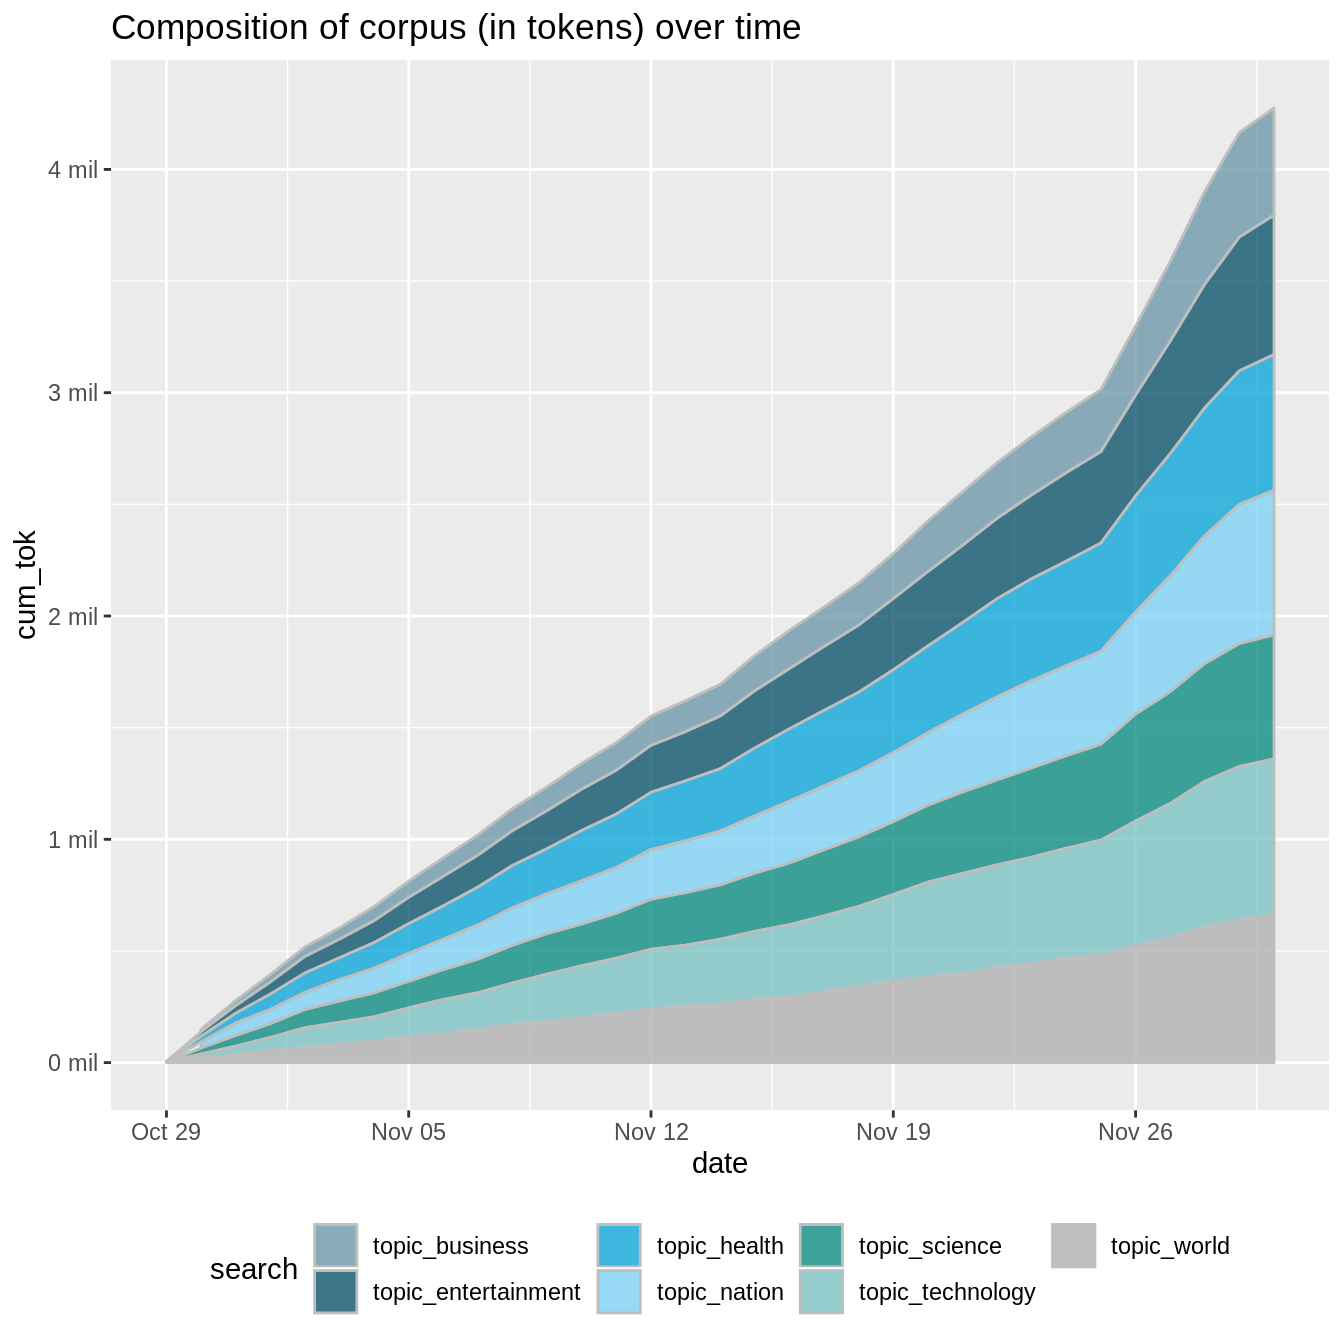
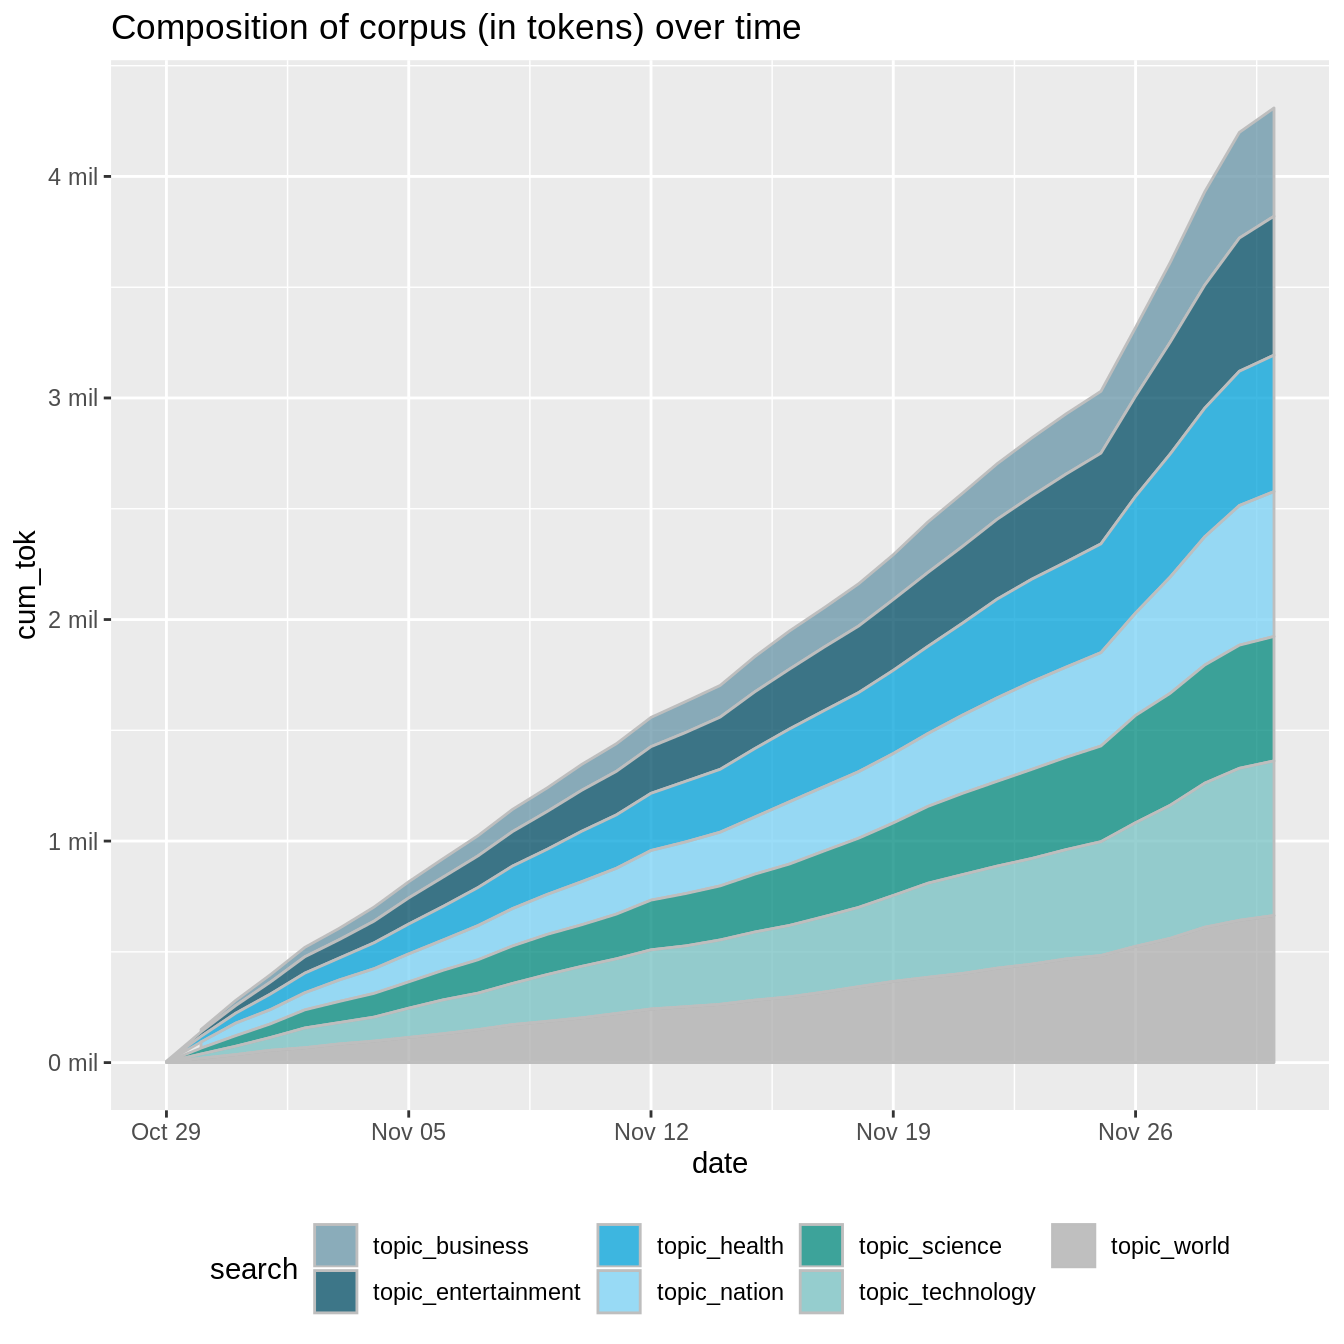
re

diff --git a/content/post/2018-11-11-text-classification-naive-bayes.html b/content/post/2018-11-11-text-classification-naive-bayes.html
@@ -15,15 +15,6 @@ tags: ['rstats', 'corpus-ling']
 banner: banners/naivebayes.png
 ---
 
-<script src="/rmarkdown-libs/htmlwidgets/htmlwidgets.js"></script>
-<script src="/rmarkdown-libs/jquery/jquery.min.js"></script>
-<link href="/rmarkdown-libs/datatables-css/datatables-crosstalk.css" rel="stylesheet" />
-<script src="/rmarkdown-libs/datatables-binding/datatables.js"></script>
-<link href="/rmarkdown-libs/dt-core/css/jquery.dataTables.min.css" rel="stylesheet" />
-<link href="/rmarkdown-libs/dt-core/css/jquery.dataTables.extra.css" rel="stylesheet" />
-<script src="/rmarkdown-libs/dt-core/js/jquery.dataTables.min.js"></script>
-<link href="/rmarkdown-libs/crosstalk/css/crosstalk.css" rel="stylesheet" />
-<script src="/rmarkdown-libs/crosstalk/js/crosstalk.min.js"></script>
 
 <div id="TOC">
 <ul>
@@ -42,34 +33,80 @@ library(knitr)
 #library(quicknews)#devtools::install_github(&quot;jaytimm/quicknews&quot;)</code></pre>
 <div id="building-a-historical-genre-based-corpus" class="section level2">
 <h2>Building a historical, genre-based corpus</h2>
-<p>For demonstration purposes, I have built a fairly small corpus comprised of national news articles from Google News’ RSS feed. The corpus (as TIF) was built using my <code>quicknews</code> package, and assembled over the course of roughly one month (10/29/18 ~ 11/30/18). Article text &amp; metadata were scraped/collected three times a day using the Windows task scheduler app. <strong>Metadata include</strong> the genre (as defined by Google News) &amp; domain name of article source.</p>
-<p>The R script used for corpus assembly (which should scale quite nicely to different/novel search types) is available <a href="https://github.com/jaytimm/quicknews/blob/master/task/build_qnews_corpus.R">here</a>.</p>
+<p>For demonstration purposes, I have built a fairly small corpus comprised of national news articles from Google News’ RSS feed. The corpus (as TIF) was built using my <code>quicknews</code> package, and assembled over the course of roughly one month (10/29/18 ~ 11/30/18). Article text &amp; metadata were scraped/collected three times a day using the Windows task scheduler app. The R script used for corpus assembly (which should scale quite nicely to different/novel search types) is available <a href="https://github.com/jaytimm/quicknews/blob/master/task/build_qnews_corpus.R">here</a>.</p>
 <pre class="r"><code>setwd(local1)
-qnews_tif &lt;- readRDS(&#39;qnews_eg_tif.rds&#39;)
-qnews_bow &lt;- readRDS(&#39;qnews_eg_corpus.rds&#39;)%&gt;%
-  mutate(doc_id = as.integer(doc_id)) %&gt;%
-  left_join(qnews_tif %&gt;% select(doc_id, search))</code></pre>
-<p>The table below summarizes the composition of our corpus in terms of genre. So, in roughly a month, we have assembled a ~6.9K text corpus comprised of ~4.2 million words. And fairly balanced as well from a genre perspective.</p>
-<pre class="r"><code>qnews_bow %&gt;%
-  filter(pos != &#39;PUNCT&#39;) %&gt;%
+qnews_tif &lt;- readRDS(&#39;qnews_eg_tif.rds&#39;) %&gt;%
+  mutate(length = lengths(gregexpr(&quot;\\W+&quot;, text)) + 1)</code></pre>
+<p><strong>Metadata include</strong> the genre (as defined by Google News) &amp; domain name of article source.</p>
+<pre class="r"><code>colnames(qnews_tif)</code></pre>
+<pre><code>##  [1] &quot;doc_id&quot;  &quot;link&quot;    &quot;lang&quot;    &quot;country&quot; &quot;search&quot;  &quot;date&quot;    &quot;source&quot; 
+##  [8] &quot;title&quot;   &quot;text&quot;    &quot;length&quot;</code></pre>
+<p>The table below summarizes the composition of our corpus in terms of genre. So, in roughly a month, we have assembled a ~6.9K text corpus comprised of ~4.3 million words. And fairly balanced as well from a genre perspective.</p>
+<pre class="r"><code>qnews_tif %&gt;%
   group_by(search) %&gt;%
-  summarize(tokens = sum(txtf),
+  summarize(tokens = sum(length),
             texts = length(unique(doc_id))) %&gt;%
-  bind_rows(totals) %&gt;%
-  DT::datatable(options = list(pageLength = 8,dom = &#39;t&#39;, scrollX = TRUE),
-              rownames = FALSE, width=&quot;100%&quot;, escape=FALSE)</code></pre>
-<div id="htmlwidget-1" style="width:100%;height:auto;" class="datatables html-widget"></div>
-<script type="application/json" data-for="htmlwidget-1">{"x":{"filter":"none","data":[["topic_business","topic_entertainment","topic_health","topic_nation","topic_science","topic_technology","topic_world","TOTAL"],[480338,624332,607545,647611,556040,698772,660620,4275258],[814,1119,961,989,869,1170,1019,6941]],"container":"<table class=\"display\">\n  <thead>\n    <tr>\n      <th>search<\/th>\n      <th>tokens<\/th>\n      <th>texts<\/th>\n    <\/tr>\n  <\/thead>\n<\/table>","options":{"pageLength":8,"dom":"t","scrollX":true,"columnDefs":[{"className":"dt-right","targets":[1,2]}],"order":[],"autoWidth":false,"orderClasses":false,"lengthMenu":[8,10,25,50,100]}},"evals":[],"jsHooks":[]}</script>
+  janitor::adorn_totals(c(&#39;row&#39;)) %&gt;% 
+  knitr::kable()</code></pre>
+<table>
+<thead>
+<tr class="header">
+<th align="left">search</th>
+<th align="right">tokens</th>
+<th align="right">texts</th>
+</tr>
+</thead>
+<tbody>
+<tr class="odd">
+<td align="left">topic_business</td>
+<td align="right">488762</td>
+<td align="right">814</td>
+</tr>
+<tr class="even">
+<td align="left">topic_entertainment</td>
+<td align="right">627014</td>
+<td align="right">1119</td>
+</tr>
+<tr class="odd">
+<td align="left">topic_health</td>
+<td align="right">615731</td>
+<td align="right">961</td>
+</tr>
+<tr class="even">
+<td align="left">topic_nation</td>
+<td align="right">654143</td>
+<td align="right">989</td>
+</tr>
+<tr class="odd">
+<td align="left">topic_science</td>
+<td align="right">561797</td>
+<td align="right">869</td>
+</tr>
+<tr class="even">
+<td align="left">topic_technology</td>
+<td align="right">697857</td>
+<td align="right">1170</td>
+</tr>
+<tr class="odd">
+<td align="left">topic_world</td>
+<td align="right">663889</td>
+<td align="right">1019</td>
+</tr>
+<tr class="even">
+<td align="left">Total</td>
+<td align="right">4309193</td>
+<td align="right">6941</td>
+</tr>
+</tbody>
+</table>
 <p>The plot below illustrates the growth of our corpus (by genre) over time.</p>
-<pre class="r"><code>library(ggthemes)
-qnews_bow %&gt;% 
-  filter(pos != &#39;PUNCT&#39;) %&gt;%
-  left_join(qnews_tif)  %&gt;%
+<pre class="r"><code>qnews_tif  %&gt;%
   group_by(date, search) %&gt;% 
-  summarize(tokens = sum(txtf)) %&gt;%
+  summarize(tokens = sum(length)) %&gt;%
   group_by(search) %&gt;% 
   mutate(cum_tok = cumsum(tokens))%&gt;%
-  filter(tokens &gt; 351) %&gt;%
+  filter(tokens &gt; 360) %&gt;%
+  
   ggplot(aes(x=date, y=cum_tok, fill = search)) +
   geom_area(alpha = 0.75, color = &#39;gray&#39;) +
   ggthemes::scale_fill_economist()+
@@ -104,50 +141,36 @@ qnews_bow %&gt;%
 </div>
 <div id="building-a-naive-bayes-classifier" class="section level2">
 <h2>Building a Naive Bayes classifier</h2>
-<p>The table below illustrates the structure of our genre-based corpus (post some removal of stop words &amp; other less informative lemma types). The corpus, then, represents each constituent article as a bag-of-words (BOW).</p>
-<pre class="r"><code>corpus_as_bow &lt;- qnews_bow %&gt;%  
-  filter(pos %in% c(&#39;VERB&#39;, &#39;ADV&#39;,&#39;NOUN&#39;, &#39;ADJ&#39;, &#39;PROPN&#39;) &amp; 
-           !lemma %in% c(toupper(tm::stopwords()),&#39;&#39;) &amp; 
-           grepl(&#39;^[A-Z]&#39;, lemma)) </code></pre>
-<pre class="r"><code>corpus_as_bow %&gt;%
-  head() %&gt;%
-  DT::datatable(options = list(pageLength = 8,dom = &#39;t&#39;, scrollX = TRUE),
-              rownames = FALSE, width=&quot;100%&quot;, escape=FALSE)</code></pre>
-<div id="htmlwidget-2" style="width:100%;height:auto;" class="datatables html-widget"></div>
-<script type="application/json" data-for="htmlwidget-2">{"x":{"filter":"none","data":[[1,1,1,1,1,1],["VOTE","JUST","PEOPLE","REALLY","ELECTION","VOTED"],["VOTE","JUST","PEOPLE","REALLY","ELECTION","VOTE"],["VB","RB","NNS","RB","NN","VBN"],["VERB","ADV","NOUN","ADV","NOUN","VERB"],[30,25,18,15,13,13],["topic_nation","topic_nation","topic_nation","topic_nation","topic_nation","topic_nation"]],"container":"<table class=\"display\">\n  <thead>\n    <tr>\n      <th>doc_id<\/th>\n      <th>token<\/th>\n      <th>lemma<\/th>\n      <th>tag<\/th>\n      <th>pos<\/th>\n      <th>txtf<\/th>\n      <th>search<\/th>\n    <\/tr>\n  <\/thead>\n<\/table>","options":{"pageLength":8,"dom":"t","scrollX":true,"columnDefs":[{"className":"dt-right","targets":[0,5]}],"order":[],"autoWidth":false,"orderClasses":false,"lengthMenu":[8,10,25,50,100]}},"evals":[],"jsHooks":[]}</script>
-<p>To build a Naive Bayes classifier via <code>caret</code>, we first need to transform our BOW corpus from long to wide format. In addition to this basic transformation, the pipe below (1) excludes superfrequent/ infrequent terms from the matrix based on document frequencies, and (2) normalizes each document vector to account for variation in document length (— infinitely smarter approaches exist).</p>
-<pre class="r"><code>set.seed(99)
-corpus_as_dtm &lt;- corpus_as_bow %&gt;%
-  group_by(doc_id, search, lemma) %&gt;%
-  summarize(n=n()) %&gt;%
-  group_by(lemma) %&gt;%
-  mutate(docf = length(unique(doc_id))) %&gt;%
-  ungroup() %&gt;%
-  mutate(docf = docf/length(unique(doc_id))) %&gt;%
-  filter(docf &gt; .02 &amp; docf &lt; .35) %&gt;% #Filter infrequent/super-frequent.
-  select(-docf) %&gt;%
-  group_by(doc_id) %&gt;%
-  mutate(n = n/sqrt(sum(n^2))) %&gt;% #Doc freqs as unit vector
+<p>To build a Naive Bayes classifier via <code>caret</code>, we first need to transform the tif corpus to a document-term matrix (DTM). Here, we work within the <code>text2vec</code> framework (see vignette <a href="http://text2vec.org/">here</a>). Document vectors are L1-normalized and transformed via TF-IDF. Note that there are any number of other ways to transform a tif corpus to a DTM. Despite some idiosyncratic syntax, <code>text2vec</code> is super-quick &amp; super-flexible, and likely a bit overkill here.</p>
+<pre class="r"><code>t2v_corp &lt;-  text2vec::itoken(qnews_tif$text, 
+                              preprocessor = tolower, 
+                              tokenizer = text2vec::word_tokenizer, 
+                              ids = qnews_tif$doc_id)
 
-  # Make wide.
-  spread(lemma,n) %&gt;%
-  replace(., is.na(.), 0)%&gt;%
-  ungroup() %&gt;%
-  mutate(search = as.factor(search))</code></pre>
+vocab &lt;- text2vec::create_vocabulary(t2v_corp, 
+                                     stopwords = tm::stopwords()) %&gt;%
+  text2vec::prune_vocabulary(doc_proportion_min = .01,
+                             doc_proportion_max = .4) %&gt;%
+  arrange(term)
+
+dtm &lt;- text2vec::create_dtm(t2v_corp, 
+                            text2vec::vocab_vectorizer(vocab))
+
+model_tfidf = text2vec::TfIdf$new()
+dtm &lt;- model_tfidf$fit_transform(dtm)</code></pre>
 <p>Using the <code>caret</code> package, then, we divide the above matrix into a training set (as 70% of full data set) and a test set (as 30%). The <code>createDataPartition</code> function conveniently creates two equally proportioned samples.</p>
 <pre class="r"><code>set.seed(99)
-trainIndex &lt;- caret::createDataPartition(corpus_as_dtm$search, p=0.7)$Resample1
-train_data &lt;- corpus_as_dtm[trainIndex, ]
-test_data &lt;- corpus_as_dtm[-trainIndex, ] #Demo distributions.</code></pre>
+trainIndex &lt;- caret::createDataPartition(qnews_tif$search, p=0.7)$Resample1
+train_data &lt;- dtm[trainIndex, ]
+test_data &lt;- dtm[-trainIndex, ] #Demo distributions.</code></pre>
 <p>With the <code>naiveBayes</code> function from the <code>e1071</code> package, we build our Naive Bayes classifier based on the training portion of the document-term matrix.</p>
-<pre class="r"><code>classifier &lt;- e1071::naiveBayes(
-  as.matrix(train_data[,3:ncol(train_data)]),
-                    train_data$search,
-                    laplace = 0.5) </code></pre>
+<pre class="r"><code>qnews_tif$search &lt;- as.factor(qnews_tif$search)
+
+classifier &lt;- e1071::naiveBayes(as.matrix(train_data), 
+                                qnews_tif[trainIndex, ]$search, 
+                                laplace = 0.5) </code></pre>
 <p>Then we implement the classifier on the test portion of the document-term matrix.</p>
-<pre class="r"><code>test_predicted &lt;- 
-  predict(classifier,
-          as.matrix(test_data[,3:ncol(test_data)]))</code></pre>
+<pre class="r"><code>test_predicted &lt;- predict(classifier, as.matrix(test_data))</code></pre>
 <p>Output contains a vector of genre predictions for each text in the test data set. eg:</p>
 <pre class="r"><code>head(test_predicted)</code></pre>
 <pre><code>## [1] topic_nation  topic_world   topic_health  topic_health  topic_science
@@ -157,34 +180,89 @@ test_data &lt;- corpus_as_dtm[-trainIndex, ] #Demo distributions.</code></pre>
 <div id="model-assessment-confusion-matrix" class="section level2">
 <h2>Model assessment &amp; confusion matrix</h2>
 <p>So, to get a sense of classifier efficacy in identifying the genre of a given article posted on Google News, we calculate a cross-tab of observed &amp; predicted genres via the <code>confusionMatrix</code> function from <code>caret</code>.</p>
-<pre class="r"><code>cfm &lt;- caret::confusionMatrix(data = test_predicted,
-                              test_data$search)</code></pre>
-<p><strong>Overall fitness statistics</strong> of our model can be accessed via the <code>overall</code> element from the list of outputs generated by the <code>confusionMatrix</code> function. So, classifier accuracy is quite good at ~ 80%. I am sure this is not at gold standard levels; however, seemingly alright for a simple lemma-based approach to text classification.</p>
+<pre class="r"><code>cfm &lt;- caret::confusionMatrix(data = test_predicted, qnews_tif[-trainIndex, ]$search)</code></pre>
+<p><strong>Overall fitness statistics</strong> of our model can be accessed via the <code>overall</code> element from the list of outputs generated by the <code>confusionMatrix</code> function. So, classifier accuracy is quite good at ~ 80%. I am sure this is not at gold standard levels; however, seemingly alright for a simple token-based approach to text classification.</p>
 <pre class="r"><code>cfm$overall</code></pre>
 <pre><code>##       Accuracy          Kappa  AccuracyLower  AccuracyUpper   AccuracyNull 
-##   0.8061568062   0.7731855919   0.7884970451   0.8229488449   0.1688311688 
+##   7.912458e-01   7.556156e-01   7.731304e-01   8.085361e-01   1.688312e-01 
 ## AccuracyPValue  McnemarPValue 
-##   0.0000000000   0.0001618247</code></pre>
+##   0.000000e+00   9.853986e-08</code></pre>
 <p>Lastly, we visualize the confusion matrix based on the <code>table</code> element of output as a tile plot below. Tiles in the most prominent shade of blue reflect correct classifications.</p>
 <pre class="r"><code>ggplot(data = as.data.frame(cfm$table) ,
            aes(x = Reference, y = Prediction)) +
-    geom_tile(aes(fill = log(Freq)), colour = &quot;white&quot;) +
-    scale_fill_gradient(low = &quot;white&quot;, high = &quot;steelblue&quot;) +
-    geom_text(aes(x = Reference, y = Prediction, label = Freq)) +
+    geom_tile(aes(fill = log(Freq)), 
+              colour = &quot;white&quot;) +
+    scale_fill_gradient(low = &quot;white&quot;, 
+                        high = &quot;steelblue&quot;) +
+    geom_text(aes(x = Reference, 
+                  y = Prediction, 
+                  label = Freq)) +
     theme(legend.position = &quot;none&quot;,
-          axis.text.x=element_text(angle=45,hjust=1)) + 
+          axis.text.x=element_text(angle=45,
+                                   hjust=1)) + 
     labs(title=&quot;Confusion Matrix&quot;)</code></pre>
-<p><img src="/post/2018-11-11-text-classification-naive-bayes_files/figure-html/unnamed-chunk-17-1.png" width="672" /></p>
+<p><img src="/post/2018-11-11-text-classification-naive-bayes_files/figure-html/unnamed-chunk-15-1.png" width="672" /></p>
 <p>Output from the <code>confusionMatrix</code> function also includes a host of model diagnostics. The table below summarizes some of the more common diagnostics by genre, including <em>sensitivity</em> (1 - proportion of false negatives), <em>specificity</em> (1 - proportion of false positives), and the average of the two, <em>balanced accuracy</em>.</p>
 <pre class="r"><code>cfm$byClass %&gt;% data.frame() %&gt;%
   select (Sensitivity, Specificity, Balanced.Accuracy) %&gt;%
   rownames_to_column(var = &#39;topic&#39;) %&gt;%
   mutate(topic = gsub(&#39;Class: &#39;,&#39;&#39;, topic)) %&gt;%
-  mutate_if(is.numeric, round, 2) %&gt;%
-  DT::datatable(options = list(pageLength = 7,dom = &#39;t&#39;, scrollX = TRUE),
-              rownames = FALSE, width=&quot;100%&quot;, escape=FALSE) </code></pre>
-<div id="htmlwidget-3" style="width:100%;height:auto;" class="datatables html-widget"></div>
-<script type="application/json" data-for="htmlwidget-3">{"x":{"filter":"none","data":[["topic_business","topic_entertainment","topic_health","topic_nation","topic_science","topic_technology","topic_world"],[0.55,0.86,0.89,0.79,0.88,0.85,0.78],[0.97,0.97,0.98,0.96,0.97,0.97,0.97],[0.76,0.91,0.93,0.88,0.93,0.91,0.87]],"container":"<table class=\"display\">\n  <thead>\n    <tr>\n      <th>topic<\/th>\n      <th>Sensitivity<\/th>\n      <th>Specificity<\/th>\n      <th>Balanced.Accuracy<\/th>\n    <\/tr>\n  <\/thead>\n<\/table>","options":{"pageLength":7,"dom":"t","scrollX":true,"columnDefs":[{"className":"dt-right","targets":[1,2,3]}],"order":[],"autoWidth":false,"orderClasses":false,"lengthMenu":[7,10,25,50,100]}},"evals":[],"jsHooks":[]}</script>
+  mutate_if(is.numeric, round, 2) %&gt;% 
+  knitr::kable() </code></pre>
+<table>
+<thead>
+<tr class="header">
+<th align="left">topic</th>
+<th align="right">Sensitivity</th>
+<th align="right">Specificity</th>
+<th align="right">Balanced.Accuracy</th>
+</tr>
+</thead>
+<tbody>
+<tr class="odd">
+<td align="left">topic_business</td>
+<td align="right">0.50</td>
+<td align="right">0.97</td>
+<td align="right">0.74</td>
+</tr>
+<tr class="even">
+<td align="left">topic_entertainment</td>
+<td align="right">0.82</td>
+<td align="right">0.97</td>
+<td align="right">0.90</td>
+</tr>
+<tr class="odd">
+<td align="left">topic_health</td>
+<td align="right">0.90</td>
+<td align="right">0.96</td>
+<td align="right">0.93</td>
+</tr>
+<tr class="even">
+<td align="left">topic_nation</td>
+<td align="right">0.79</td>
+<td align="right">0.95</td>
+<td align="right">0.87</td>
+</tr>
+<tr class="odd">
+<td align="left">topic_science</td>
+<td align="right">0.85</td>
+<td align="right">0.97</td>
+<td align="right">0.91</td>
+</tr>
+<tr class="even">
+<td align="left">topic_technology</td>
+<td align="right">0.87</td>
+<td align="right">0.96</td>
+<td align="right">0.91</td>
+</tr>
+<tr class="odd">
+<td align="left">topic_world</td>
+<td align="right">0.75</td>
+<td align="right">0.97</td>
+<td align="right">0.86</td>
+</tr>
+</tbody>
+</table>
 </div>
 <div id="summary" class="section level2">
 <h2>Summary</h2>
